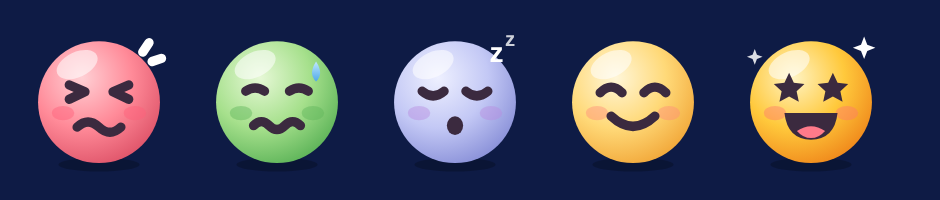
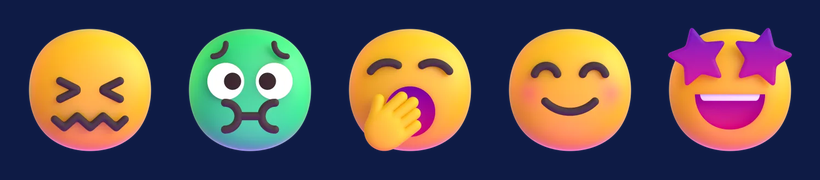
Mi ciclo: caritas 3D Fluent Emoji (MIT) en img/caritas para el prototipo
Claude-Session: https://claude.ai/code/session_01SXsANn7JHtpP7WLKUe9EEv

diff --git a/dev/ciclo-prototipo/ciclo.js b/dev/ciclo-prototipo/ciclo.js
@@ -41,18 +41,10 @@ var CY_SENTIR = [
     face:'<path d="M17 15.6l1.5 3.2 3.4.4-2.5 2.3.7 3.4-3.1-1.7-3.1 1.7.7-3.4-2.5-2.3 3.4-.4z" fill="#3B2A3F"/><path d="M31 15.6l1.5 3.2 3.4.4-2.5 2.3.7 3.4-3.1-1.7-3.1 1.7.7-3.4-2.5-2.3 3.4-.4z" fill="#3B2A3F"/><path d="M15.5 28.5h17q-1 8.5-8.5 8.5t-8.5-8.5z" fill="#3B2A3F"/><path d="M19.5 34.2q4.5-3 9 0q-2 2.3-4.5 2.3t-4.5-2.3z" fill="#FF7A8A"/><path d="M41 4l1 2.6 2.6 1-2.6 1-1 2.6-1-2.6-2.6-1 2.6-1z" fill="#FFF"/><path d="M6 8l.7 1.8 1.8.7-1.8.7-.7 1.8-.7-1.8-1.8-.7 1.8-.7z" fill="#FFF" opacity=".85"/>',
     tip:'¡Aprovéchala! Hoy es un gran día para retarte un poquito más.' }
 ];
-var CY_FACE_N = 0;
+// Caritas 3D (Fluent Emoji de Microsoft, licencia MIT) guardadas en img/caritas/{id}.webp
+var CY_IMG_BASE = (typeof CY_IMG_BASE !== 'undefined') ? CY_IMG_BASE : 'img/caritas/';
 function cicloCaraSvg(s) {
-  var n = ++CY_FACE_N, g = 'cyf' + n;
-  return '<svg viewBox="0 0 48 48" aria-hidden="true"><defs>'
-    + '<radialGradient id="' + g + '" cx="36%" cy="30%" r="75%"><stop offset="0" stop-color="' + s.c[0] + '"/><stop offset=".55" stop-color="' + s.c[1] + '"/><stop offset="1" stop-color="' + s.c[2] + '"/></radialGradient>'
-    + '<linearGradient id="cyDrop" x1="0" y1="0" x2="0" y2="1"><stop offset="0" stop-color="#BFE8FF"/><stop offset="1" stop-color="#4FA8E8"/></linearGradient>'
-    + '<style>.k{fill:none;stroke:#3B2A3F;stroke-width:3;stroke-linecap:round;stroke-linejoin:round}</style></defs>'
-    + '<ellipse cx="24" cy="45" rx="13" ry="2.2" fill="#000" opacity=".22"/>'
-    + '<circle cx="24" cy="25" r="19.5" fill="url(#' + g + ')"/>'
-    + '<ellipse cx="17" cy="13" rx="7" ry="4" fill="#fff" opacity=".55" transform="rotate(-25 17 13)"/>'
-    + '<ellipse cx="12.5" cy="28.5" rx="3.6" ry="2.3" fill="' + s.cheek + '" opacity=".45"/><ellipse cx="35.5" cy="28.5" rx="3.6" ry="2.3" fill="' + s.cheek + '" opacity=".45"/>'
-    + s.face + '</svg>';
+  return '<img class="cy-face" src="' + CY_IMG_BASE + s.id + '.webp" alt="" width="40" height="40" loading="lazy">';
 }
 function cicloSentirInfo(id) { for (var i = 0; i < CY_SENTIR.length; i++) if (CY_SENTIR[i].id === id) return CY_SENTIR[i]; return null; }
 function cicloFase(dia, largo) {

diff --git a/dev/ciclo-prototipo/ciclo.css b/dev/ciclo-prototipo/ciclo.css
@@ -40,12 +40,12 @@
 .cy-feel-row{display:flex;gap:.4rem}
 .cy-feel-row{gap:.35rem}
 .cy-feel button{flex:1;min-width:0;display:flex;flex-direction:column;align-items:center;gap:.3rem;background:rgba(255,255,255,.07);border:1px solid rgba(255,255,255,.12);border-radius:14px;padding:.5rem .1rem .45rem;cursor:pointer;transition:transform .15s,background .15s;color:#fff;font-family:inherit}
-.cy-feel button svg{width:40px;height:40px;display:block;transition:transform .25s cubic-bezier(.2,1.4,.4,1);overflow:visible}
+.cy-feel button .cy-face,.cy-feel button svg{width:40px;height:40px;display:block;transition:transform .25s cubic-bezier(.2,1.4,.4,1);overflow:visible}
 .cy-feel button span{font-size:.58rem;font-weight:700;line-height:1.1;text-align:center;opacity:.8}
-.cy-feel button:active svg{transform:scale(.9)}
+.cy-feel button:active .cy-face,.cy-feel button:active svg{transform:scale(.9)}
 .cy-feel button.sel{background:var(--cy-chip);color:var(--cy-ink);transform:translateY(-3px);box-shadow:0 3px 0 rgba(0,0,0,.3)}
 .cy-feel button.sel span{opacity:1}
-.cy-feel button.sel svg{transform:scale(1.15) rotate(-6deg);animation:cyFaceBop 1.8s ease-in-out infinite}
+.cy-feel button.sel .cy-face,.cy-feel button.sel svg{transform:scale(1.15) rotate(-6deg);animation:cyFaceBop 1.8s ease-in-out infinite}
 @keyframes cyFaceBop{0%,100%{transform:scale(1.15) rotate(-6deg)}50%{transform:scale(1.15) rotate(4deg) translateY(-2px)}}
 .cy-feel-tip{margin-top:.6rem;font-size:.75rem;line-height:1.45;background:rgba(255,255,255,.06);border-radius:12px;padding:.55rem .7rem}
 .cy-feel small{display:block;font-size:.66rem;opacity:.65;margin-top:.45rem}
@@ -54,3 +54,4 @@
 .cy-legend span{display:flex;align-items:center;gap:.3rem;opacity:.55}
 .cy-legend span.on{opacity:1;color:#fff}
 .cy-legend i{width:7px;height:7px;border-radius:50%;display:inline-block}
+.cy-face{width:40px;height:40px;display:block;filter:drop-shadow(0 3px 4px rgba(0,0,0,.3))}

diff --git a/dev/ciclo-prototipo/demo.html b/dev/ciclo-prototipo/demo.html
@@ -8,7 +8,7 @@ body{margin:0;background:#07122E;font-family:'DM Sans',sans-serif;display:flex;g
 .col{width:358px}
 </style><link rel="stylesheet" href="ciclo.css"></head><body>
 <div class="col" id="a"></div><div class="col" id="b"></div><div class="col" id="c"></div><div class="col" id="d"></div>
-<script src="ciclo.js"></script><script>
+<script>var CY_IMG_BASE="../../img/caritas/";</script><script src="ciclo.js"></script><script>
 function cicloSentir(){}
 a.innerHTML=cicloCardHtml({dia:2,largo:28,sentir:'dolor'});
 b.innerHTML=cicloCardHtml({dia:9,largo:28});
